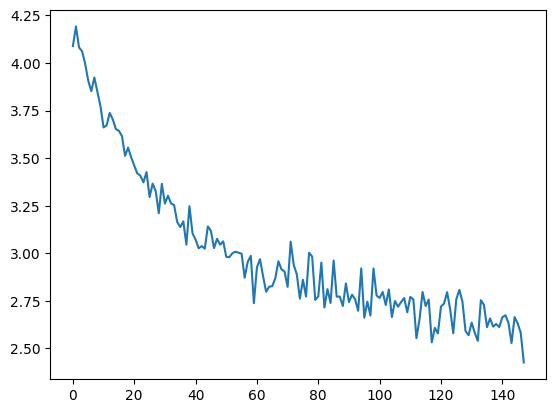
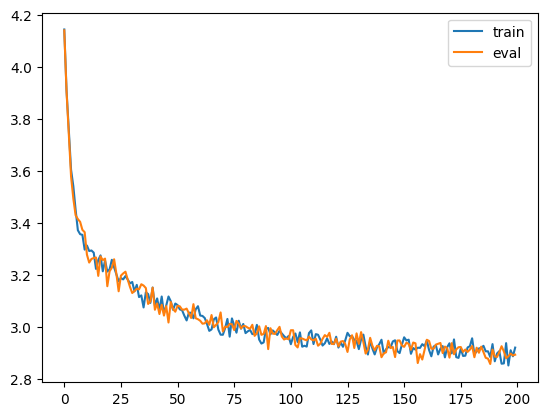
v3 -> avg self att

Changed region(s): [[0.0, 0.0291, 0.9945, 0.9879], [0.1554, 0.1743, 0.2176, 0.3196]]

diff --git a/char_level/v3/v3_decoder.py b/char_level/v3/v3_decoder.py
@@ -2,6 +2,22 @@ import torch
 import torch.nn as nn
 from torch.nn import functional as F
 
+class AvgSelfAtt(nn.Module):
+    def __init__(self):
+        super().__init__()
+    
+
+    def forward(self, x):
+        _, S, _ = x.shape
+
+        weights = torch.zeros(S, S).cuda() # zeros will become 1s on the softmax exp, creating a uniform distribution
+        mask = torch.tril(torch.ones(S, S).cuda()) # zeros if above the main diagonal and ones otherwise
+        weights = weights.masked_fill(mask == 0, float('-inf')) # set upper triangular values to -inf
+        weights = torch.softmax(weights, dim=-1) # create a uniform distribution in relation to the 1 positions for each row, -inf position become 0
+        x = weights @ x # average x's row values up until the main diagonal. weights (S, S) @ x (B, S, E) become (B, S, E) 
+
+        return x
+
 class CharV3(nn.Module):
     def __init__(self, vocab_size, context_size, emb_dim):
         super().__init__()
@@ -11,7 +27,8 @@ class CharV3(nn.Module):
 
         self.tkn_emb_table = nn.Embedding(vocab_size, emb_dim)
         self.pos_emb_table = nn.Embedding(context_size, emb_dim)
-        self.lm_head = nn.Linear(emb_dim, vocab_size)
+        self.avg_att = AvgSelfAtt()
+        self.linear = nn.Linear(emb_dim, vocab_size)
 
     def forward(self, x, targets=None):
         # x -> (B, S); S = seq len
@@ -22,10 +39,11 @@ class CharV3(nn.Module):
 
         seq_indexes = torch.arange(S).cuda()
         pos_emb = self.pos_emb_table(seq_indexes) # pos_emb -> (S, E)
-
         x = tkn_emb + pos_emb # (B, S, E)
 
-        logits = self.lm_head(x) # x (B, S, E) @ lm_head (E, V) -> (B, S, V); V = vocab size
+        x = self.avg_att(x) # (B, S, E)
+
+        logits = self.linear(x) # x (B, S, E) @ linear (E, V) -> (B, S, V); V = vocab size
 
         if targets == None:
             loss = None

diff --git a/char_level/v2/v2_decoder.py b/char_level/v2/v2_decoder.py
@@ -12,7 +12,7 @@ class CharV2(nn.Module):
         self.tkn_emb_table = nn.Embedding(vocab_size, emb_dim)
         # y = x @ A.T + b, where A is (vocab_size, emb_dim) and b in (1, vocab_size)
         # in practice it is x @ (emb_dim, vocab_size) + (1, vocab_size)
-        self.lm_head = nn.Linear(emb_dim, vocab_size)
+        self.linear = nn.Linear(emb_dim, vocab_size)
 
     def forward(self, x, targets=None):
         # x -> (B, S); S = seq len
@@ -20,7 +20,7 @@ class CharV2(nn.Module):
 
         # token and positiona embeddings
         tkn_emb = self.tkn_emb_table(x) # tkn_emb -> (B, S, E); E = embeding dims
-        logits = self.lm_head(tkn_emb) # x (B, S, E) @ lm_head (E, V) -> (B, S, V); V = vocab size
+        logits = self.linear(tkn_emb) # x (B, S, E) @ linear (E, V) -> (B, S, V); V = vocab size
 
         if targets == None:
             loss = None

diff --git a/char_level/v3/v3.py b/char_level/v3/v3.py
@@ -18,6 +18,7 @@ def setup_seed(seed):
 SEED = 42
 PATH = '../data/shakespeare.txt'
 
+STEPS = 10000 # num of training steps
 BATCH_SIZE = 4
 CONTEXT_SIZE = 8
 EMBEDDING_DIM = 10
@@ -57,13 +58,13 @@ def gen_test():
 gen_test()
 
 #%% Train
-train_loss, eval_loss = train(v1_model, loader, steps=1500, lr=LR, 
+train_loss, eval_loss = train(v1_model, loader, steps=STEPS, lr=LR, 
                               eval_every=EVAL_EVERY, eval_steps=EVAL_STEPS)
 
 #%% Plot losses
 plt.plot(train_loss, label='train')
 plt.plot(eval_loss, label='eval')
-print(f"Final losses: train {train_loss[-1]}; eval {eval_loss[-1]}")
+print(f"Final losses: train {train_loss[-1]:.4f}; eval {eval_loss[-1]:.4f}")
 leg = plt.legend()
 plt.show()
 

diff --git a/char_level/v3/avg_self_att_demo.py b/char_level/v3/avg_self_att_demo.py
@@ -1,0 +1,24 @@
+#%%
+import torch
+
+x = torch.randint(0, 10 , (4, 8, 4)).float()
+
+B, S, C = x.shape
+
+weights = torch.zeros(S, S)
+
+mask = torch.tril(torch.ones(S, S))
+print(mask)
+
+weights = weights.masked_fill(mask == 0, float('-inf'))
+print(weights)
+print(weights.shape)
+
+weights = torch.softmax(weights, dim=-1) #(S, S) (B, S, C)
+print(weights)
+
+print(x[0])
+
+x = weights @ x
+x[0]
+# %%
